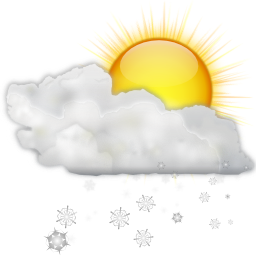
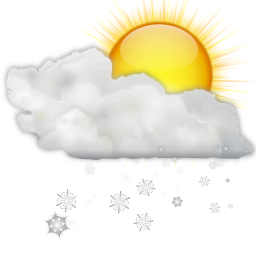
UI Styling

diff --git a/public/js/app.js b/public/js/app.js
@@ -503,7 +503,7 @@ define([
 					filename = 'weather-ico026';
 					break;	
 				case 24:
-					filename = 'weather-ico025';
+					filename = 'weather-ico025_01';
 					break;	
 				case 25:
 					filename = 'weather-ico020';
